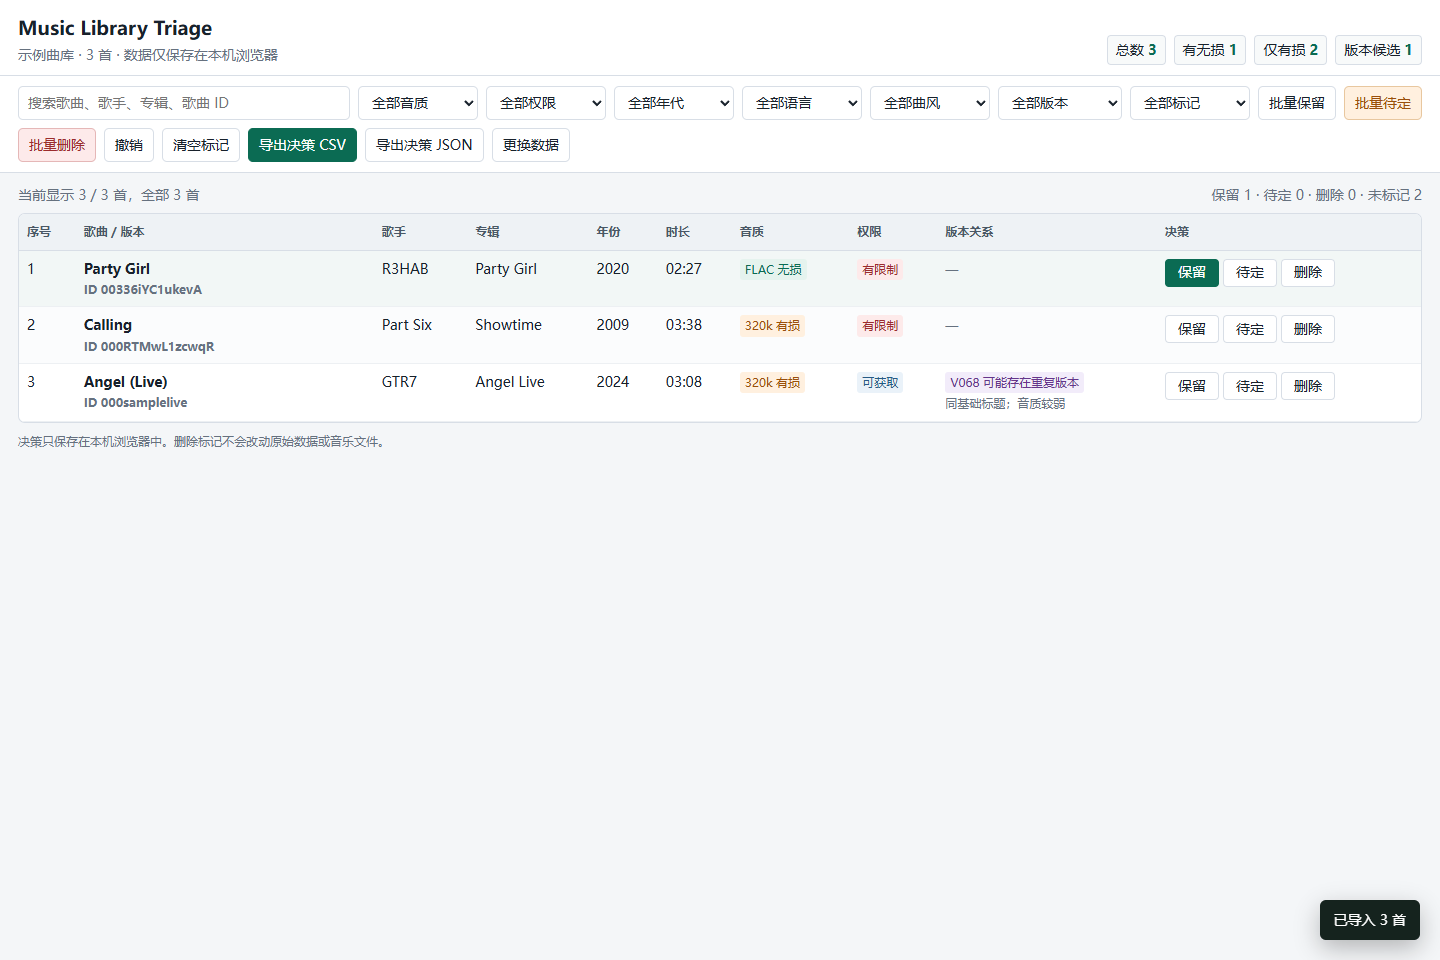
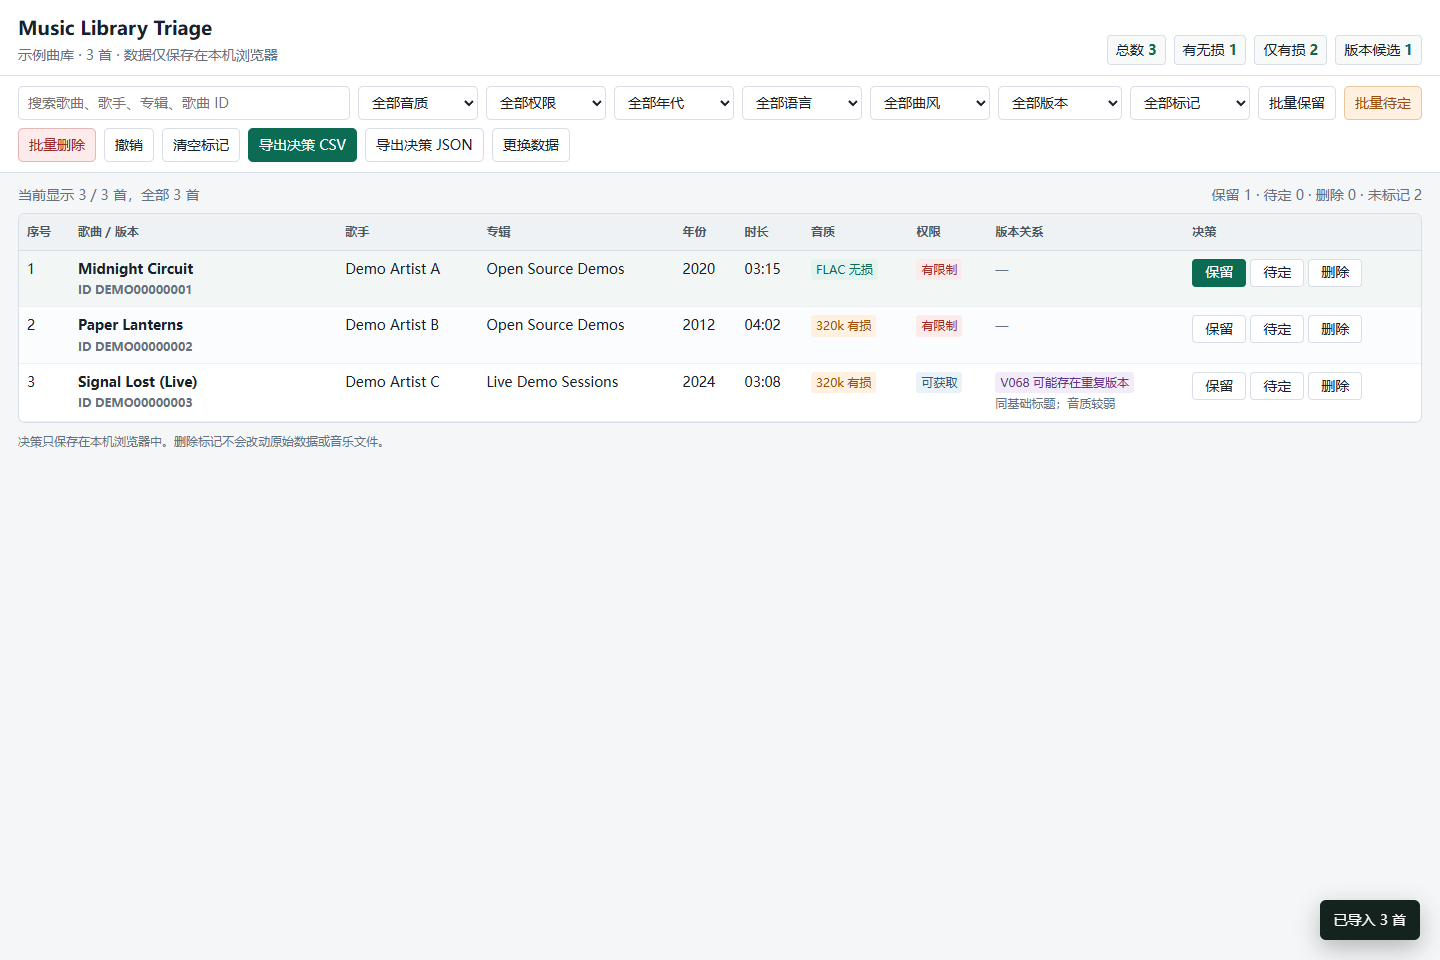
Use fictional data in public examples

diff --git a/index.html b/index.html
@@ -201,12 +201,12 @@ tbody tr:hover{background:#f2f7f6}
     rows: [
       {
         index: 1,
-        title: "Party Girl",
-        singer: "R3HAB",
-        album: "Party Girl",
+        title: "Midnight Circuit",
+        singer: "Demo Artist A",
+        album: "Open Source Demos",
         year: 2020,
-        duration: "02:27",
-        mid: "00336iYC1ukevA",
+        duration: "03:15",
+        mid: "DEMO00000001",
         quality: "FLAC 无损",
         lossless: "有无损",
         hires: "否",
@@ -215,12 +215,12 @@ tbody tr:hover{background:#f2f7f6}
       },
       {
         index: 2,
-        title: "Calling",
-        singer: "Part Six",
-        album: "Showtime",
-        year: 2009,
-        duration: "03:38",
-        mid: "000RTMwL1zcwqR",
+        title: "Paper Lanterns",
+        singer: "Demo Artist B",
+        album: "Open Source Demos",
+        year: 2012,
+        duration: "04:02",
+        mid: "DEMO00000002",
         quality: "320k 有损",
         lossless: "仅有损",
         hires: "否",
@@ -229,12 +229,12 @@ tbody tr:hover{background:#f2f7f6}
       },
       {
         index: 3,
-        title: "Angel (Live)",
-        singer: "GTR7",
-        album: "Angel Live",
+        title: "Signal Lost (Live)",
+        singer: "Demo Artist C",
+        album: "Live Demo Sessions",
         year: 2024,
         duration: "03:08",
-        mid: "000samplelive",
+        mid: "DEMO00000003",
         quality: "320k 有损",
         lossless: "仅有损",
         hires: "否",

diff --git a/README.md b/README.md
@@ -49,12 +49,12 @@ npx serve .
   "rows": [
     {
       "index": 1,
-      "title": "Party Girl",
-      "singer": "R3HAB",
-      "album": "Party Girl",
+      "title": "Midnight Circuit",
+      "singer": "Demo Artist A",
+      "album": "Open Source Demos",
       "year": 2020,
-      "duration": "02:27",
-      "mid": "00336iYC1ukevA",
+      "duration": "03:15",
+      "mid": "DEMO00000001",
       "quality": "FLAC 无损",
       "lossless": "有无损",
       "hires": "否",
